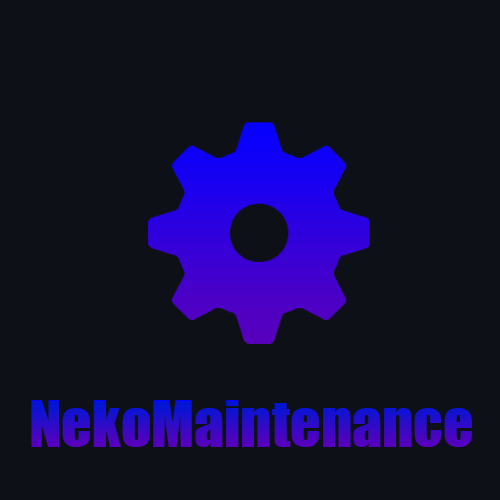
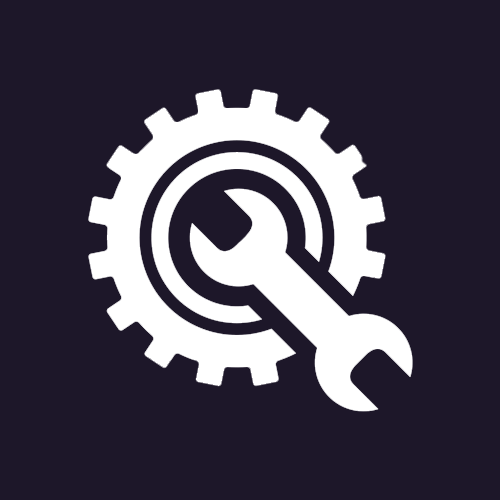
v2.1.0

diff --git a/src/components/project/index.tsx b/src/components/project/index.tsx
@@ -1,13 +1,17 @@
-import styles from './styles.module.scss';
+import styles from './projects.module.scss';
 
-export function Project () {
+export function Project() {
   return (
-    <main className={`${styles.main} ${styles.background}`} data-aos="fade-right" id='project '>
-      <div className={styles.row}>
+    <main className={`${styles.main} ${styles.background}`} id='project '>
+        <div className={styles.logo}>
+          <img className={styles.project} src='/imgs/projetos.png' alt='Logo' />
+        </div>
+
+      <div className={styles.row} data-aos="fade-left">
         <div className={styles['item-grid']}>
-          <img src="/banners/GladFarmBot.png" alt="Logo" />
+          <img src="/banners/gladmc.png" alt="Logo" />
           <h3 className={styles['gd-pink-1']}>BOT<br />GladMC</h3>
-          <p>BOT para farm AFK no servidor GladMC com comandos no Discord</p>
+          <p>BOT para farm AFK no servidor GladMC com comandos no Discord.</p>
           <a target="_blank" href="https://github.com/LukeTheNeko/GladFarm">
             <button className={styles.button}>Ver</button>
             <ul>
@@ -22,7 +26,7 @@ export function Project () {
         </div>
 
         <div className={styles['item-grid']}>
-          <img src="/banners/SteamHourBoost.png" alt="Logo" />
+          <img src="/banners/steamfarm.png" alt="Logo" />
           <h3 className={styles['gd-pink-1']}>Steam<br />HourBoost</h3>
           <p>Um Bot para aumentar horas nos jogos da Steam.</p>
           <a target="_blank" href="https://github.com/LukeTheNeko/SteamHourBoost">
@@ -41,7 +45,7 @@ export function Project () {
         <div className={styles['item-grid']}>
           <img src="/banners/notzsite.png" alt="Logo" />
           <h3 className={styles['gd-pink-1']}>Notz<br />Website</h3>
-          <p>Um site simples para um servidor de Minecraft</p>
+          <p>Um site simples para um servidor de Minecraft.</p>
           <a target="_blank" href="https://redenotz.net">
             <button className={styles.button}>Ver</button>
             <ul>
@@ -56,7 +60,7 @@ export function Project () {
         </div>
 
         <div className={styles['item-grid']}>
-          <img src="/banners/NekoMaintenance.png" alt="Logo" />
+          <img src="/banners/nekomaintenance.png" alt="Logo" />
           <h3 className={styles['gd-pink-1']}>Neko<br />Maintenance</h3>
           <p>Minecraft Plugin em Kotlin que ativa ou desativa o modo de manuntenção no servidor.</p>
           <a target="_blank" href="https://github.com/LukeTheNeko/NekoMaintenance">
@@ -70,13 +74,13 @@ export function Project () {
         </div>
 
         <div className={styles['item-grid']}>
-          <img src="/banners/TweetRandomWord.png" alt="Logo" />
+          <img src="/banners/tweetrandomword.png" alt="Logo" />
           <h3 className={styles['gd-pink-1']}>Tweet<br />RandomWord</h3>
           <p>Bot para Tweets de palavras aleatórias a cada 30 minutos.</p>
           <a target="_blank" href="https://github.com/LukeTheNeko/TweetRandomWord">
             <button className={styles.button}>Ver</button>
             <ul>
-            <li>
+              <li>
                 <img src="/icons/js.svg" alt="Icone Js" />
               </li>
               <li>
@@ -87,9 +91,9 @@ export function Project () {
         </div>
 
         <div className={styles['item-grid']}>
-          <img src="/banners/rikubot.png" alt="Logo" />
+          <img src="/banners/discord.png" alt="Logo" />
           <h3 className={styles['gd-pink-1']}>Kaze<br />BOT</h3>
-          <p>Discord Bot simples com banco de dados</p>
+          <p>Discord Bot simples com banco de dados.</p>
           <a target="_blank" href="https://github.com/LukeTheNeko/KazeBOT">
             <button className={styles.button}>Ver</button>
             <ul>
@@ -107,7 +111,7 @@ export function Project () {
         </div>
 
         <div className={styles['item-grid']}>
-          <img src="/banners/NekoClearLag.png" alt="Logo" />
+          <img src="/banners/nekoclearlag.png" alt="Logo" />
           <h3 className={styles['gd-pink-1']}>Neko<br />Clear Lag</h3>
           <p>Minecraft Plugin para que remove items do chão evitando Lag.</p>
           <a target="_blank" href="https://github.com/LukeTheNeko/NekoClearLag">
@@ -121,7 +125,7 @@ export function Project () {
         </div>
 
         <div className={styles['item-grid']}>
-          <img src="/banners/Nekoutility.png" alt="Logo" />
+          <img src="/banners/nekoutility.png" alt="Logo" />
           <h3 className={styles['gd-pink-1']}>Neko<br />Utility</h3>
           <p>Minecraft Plugin que adiciona comandos e funções essenciais.</p>
           <a target="_blank" href="https://github.com/LukeTheNeko/NekoUtility">
@@ -134,7 +138,7 @@ export function Project () {
           </a>
         </div>
 
-              {/* More */}
+        {/* More */}
 
       </div>
     </main>

diff --git a/src/components/project/projects.module.scss b/src/components/project/projects.module.scss
@@ -21,7 +21,7 @@
   box-shadow: 0px 4px 4px rgba(0, 0, 0, 0.25);
 
   img {
-    width: 80%;
+    width: 75%;
     border-radius: 15%;
     margin-bottom: 30px;
   }
@@ -37,13 +37,12 @@
   }
 
   p {
-    margin: 10%;
+    margin: 5%;
     font-weight: bold;
-    color: #fff;
   }
 
   .gd-pink-1 {
-    background: linear-gradient(95.51deg, #ea00ff 0%, #7b00ff 100%);
+    background: linear-gradient(95.51deg, #ea00ff 0%, #5f08ff 100%);
     -webkit-background-clip: text;
     -webkit-text-fill-color: transparent;
     background-clip: text;
@@ -54,15 +53,14 @@
     flex-direction: row;
     align-items: center;
     justify-content: center;
-    margin-top: 40px;
-    padding-left: 0px;
+    margin-top: 30px;
 
     li {
       list-style-type: none;
       margin: 0px 10px;
 
       img {
-        width: 30px;
+        width: 25px;
       }
     }
   }
@@ -71,7 +69,6 @@
 .row {
   display: flex;
   flex-wrap: wrap;
-  margin-bottom: 25px;
   flex-direction: row;
   justify-content: space-evenly;
   width: 100%;
@@ -83,4 +80,19 @@
       margin-bottom: 20px;
     }
   }
+}
+
+.logo {
+  display: flex;
+  justify-content: center;
+  align-items: center;
+  margin-bottom: 2em;
+}
+
+.project {
+  max-height: 10vh;
+}
+
+.project:hover {
+  transform: scale(1.08);
 }

diff --git a/src/components/home/index.tsx b/src/components/home/index.tsx
@@ -1,7 +1,7 @@
 import { BsGithub, BsInstagram, BsTiktok, BsTwitter, BsYoutube } from 'react-icons/bs';
 import { Header } from '../header';
 import { ParticleEffect } from '../particles';
-import styles from './styles.module.scss';
+import styles from './home.module.scss';
 
 export function Main2() {
     return (
@@ -20,7 +20,7 @@ export function Main2() {
                     </div>
                     <div className={styles.block2} data-aos="fade-left">
                         <div className={styles.imageContainer}>
-                            <img className={styles.me} src='./imgs/devimg.png' alt="devimg" />
+                            <img className={styles.me} src='./imgs/devpc.png' alt="dev no pc" />
                         </div>
                     </div>
                 </div>

diff --git a/src/pages/index.tsx b/src/pages/index.tsx
@@ -20,11 +20,11 @@ export default function Home() {
     return (
         <>
             <Head>
-                <title>LukeTheNeko</title>
+                <title>Lucas - Meu Portfólio</title>
                 <link rel="icon" href="./LukeNekoUwU/LukeTheNekoAudi.jpg" />
-                <meta property="og:title" content="Lucas - Meu Portfólio" />
                 <meta name="description" content="Olá, Eu sou o Lucas este é meu portifolio :3"></meta>
                 <meta name="keywords" content="portifolio, dev, developer, js, ts, react"></meta>
+                <meta name="google-adsense-account" content="ca-pub-2763973119875552"></meta>
             </Head>
             <div className={`${styles.home} ${styles['background-container']}`} id='start'> 
             <Main2 />

diff --git a/src/pages/projetos.tsx b/src/pages/projetos.tsx
@@ -19,15 +19,12 @@ export default function Home() {
         <>
             <Head>
                 <title>Meus Projetos</title>
+                <meta name="description" content="Meus Projetos públicos"></meta>
                 <link rel="icon" href="./LukeNekoUwU/LukeTheNekoAudi.jpg" />
             </Head>
             <div className={`${styles.home} ${styles['background-container']}`} id='start'>
                 <Header />
-                <main className={styles.mainproject}>
-                    <div className={styles.image}>
-                        <img className={styles.project} src='/imgs/projetos.png' alt='Logo' />
-                    </div>
-                </main>
+ 
                 <Cookies />
                 <Project />
                 <Footer />

diff --git a/src/styles/style_home.module.scss b/src/styles/style_home.module.scss
@@ -48,7 +48,7 @@
 .image {
     display: flex;
     justify-content: center;
-    padding-bottom: 100px; //
+    padding-bottom: 100px;
 }
 
 .me {
@@ -87,23 +87,4 @@
     display: flex;
     align-items: center;
     padding: 1rem;
-}
-
-.mainproejct {
-    padding-top: 3rem;
-    min-height: 25vh;
-    display: flex;
-    justify-content: center;
-    align-items: center;
-}
-
-.project {
-    height: 70px;
-    cursor: default;
-    text-align: center;
-    transition: transform 0.3s ease;
-}
-
-.project:hover {
-    transform: scale(1.08);
 }

diff --git a/src/styles/style_global.scss b/src/styles/style_global.scss
@@ -19,12 +19,11 @@ button {
     cursor: pointer;
     background-color: #ffffff55;
     border: none;
-    border-radius: 25px;
+    border-radius: 15px;
     margin-top: 20px;
-    font-size: 14pt;
+    font-size: 16pt;
     color: #fff;
     padding: 10px 70px;
-    top: 30px;
     transition: 0.3s;
 }
 

diff --git a/src/components/cookies/index.tsx b/src/components/cookies/index.tsx
@@ -1,5 +1,5 @@
 import React, { useState, useEffect } from 'react';
-import styles from './styles.module.scss';
+import styles from './cookie.module.scss';
 
 export function Cookies() {
   const [displayBanner, setDisplayBanner] = useState<boolean>(true);

diff --git a/src/components/technology/index.tsx b/src/components/technology/index.tsx
@@ -1,4 +1,4 @@
-import styles from './styles.module.scss';
+import styles from './technology.module.scss';
 import { BoxTecnologia } from '../ui/box';
 import { motion } from 'framer-motion';
 import { useEffect, useState, useRef } from 'react';

diff --git a/src/components/header/header.module.scss b/src/components/header/header.module.scss
@@ -53,7 +53,6 @@
             }
         }
 
-        /* EFEITO HOVER */
         a {
             padding-bottom: 0.3em;
             background:

diff --git a/src/components/about/index.tsx b/src/components/about/index.tsx
@@ -1,4 +1,4 @@
-import styles from './styles.module.scss';
+import styles from './about.module.scss';
 
 export function About() {
   return (
